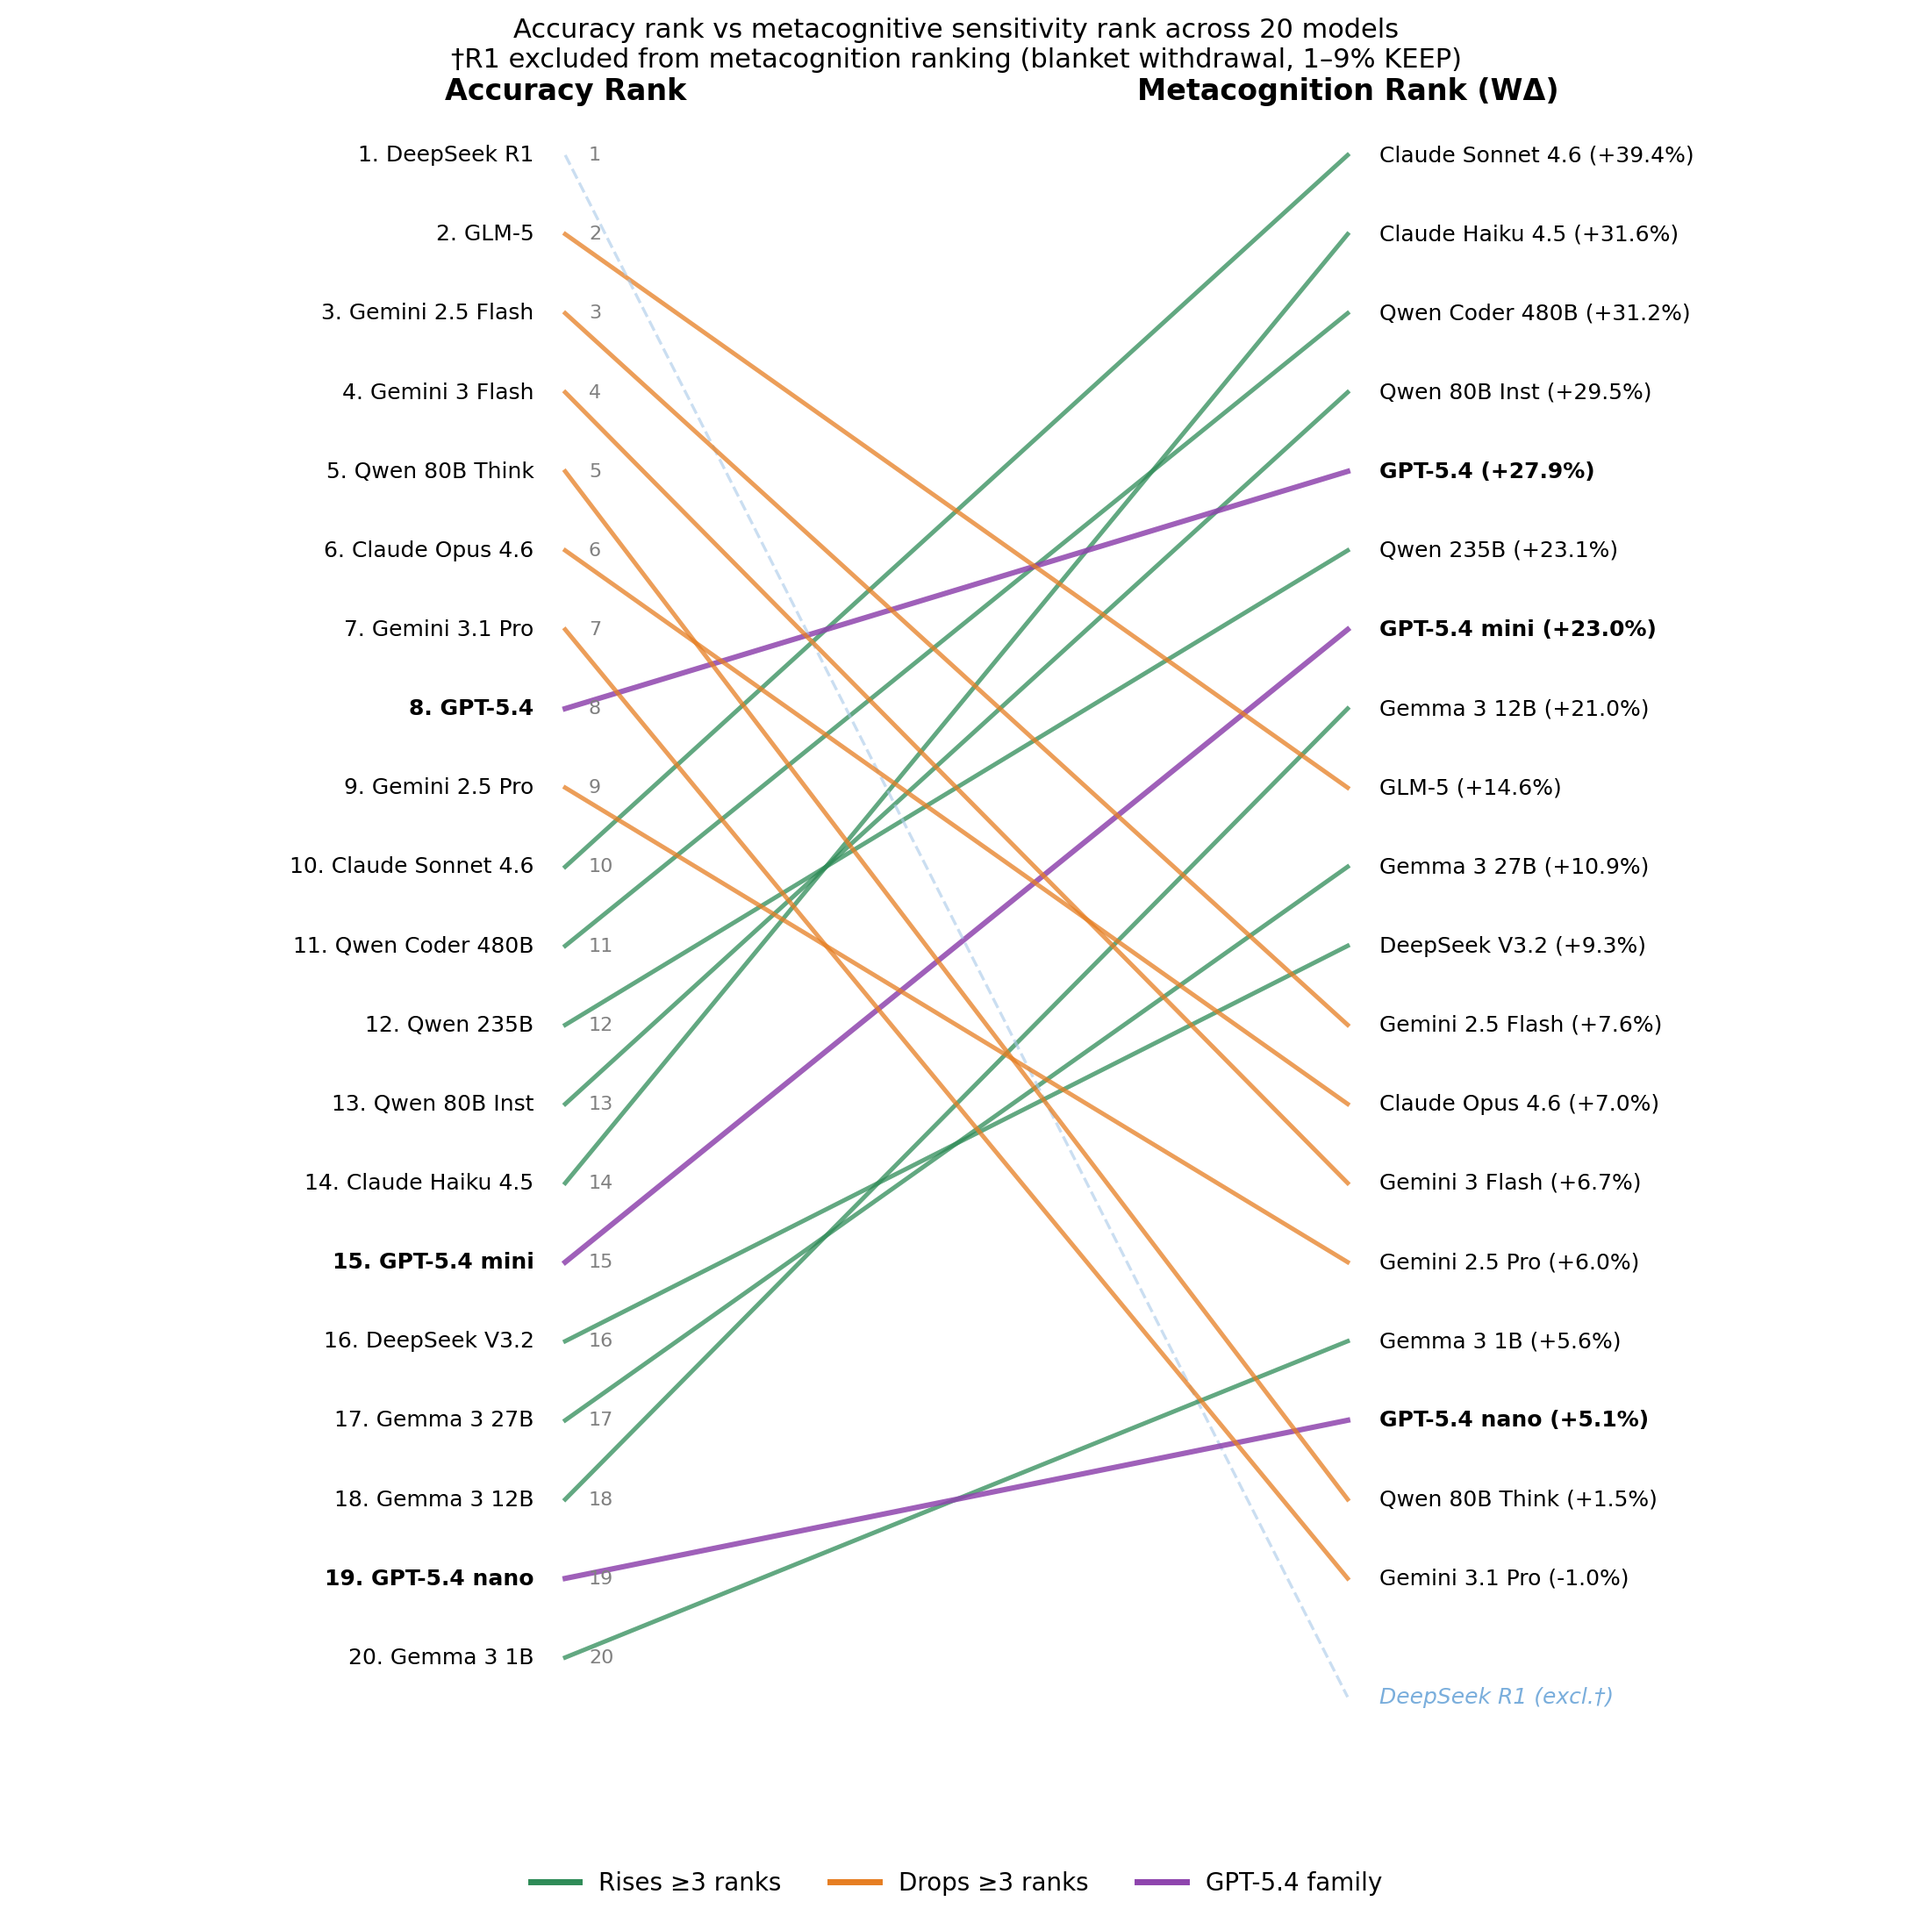
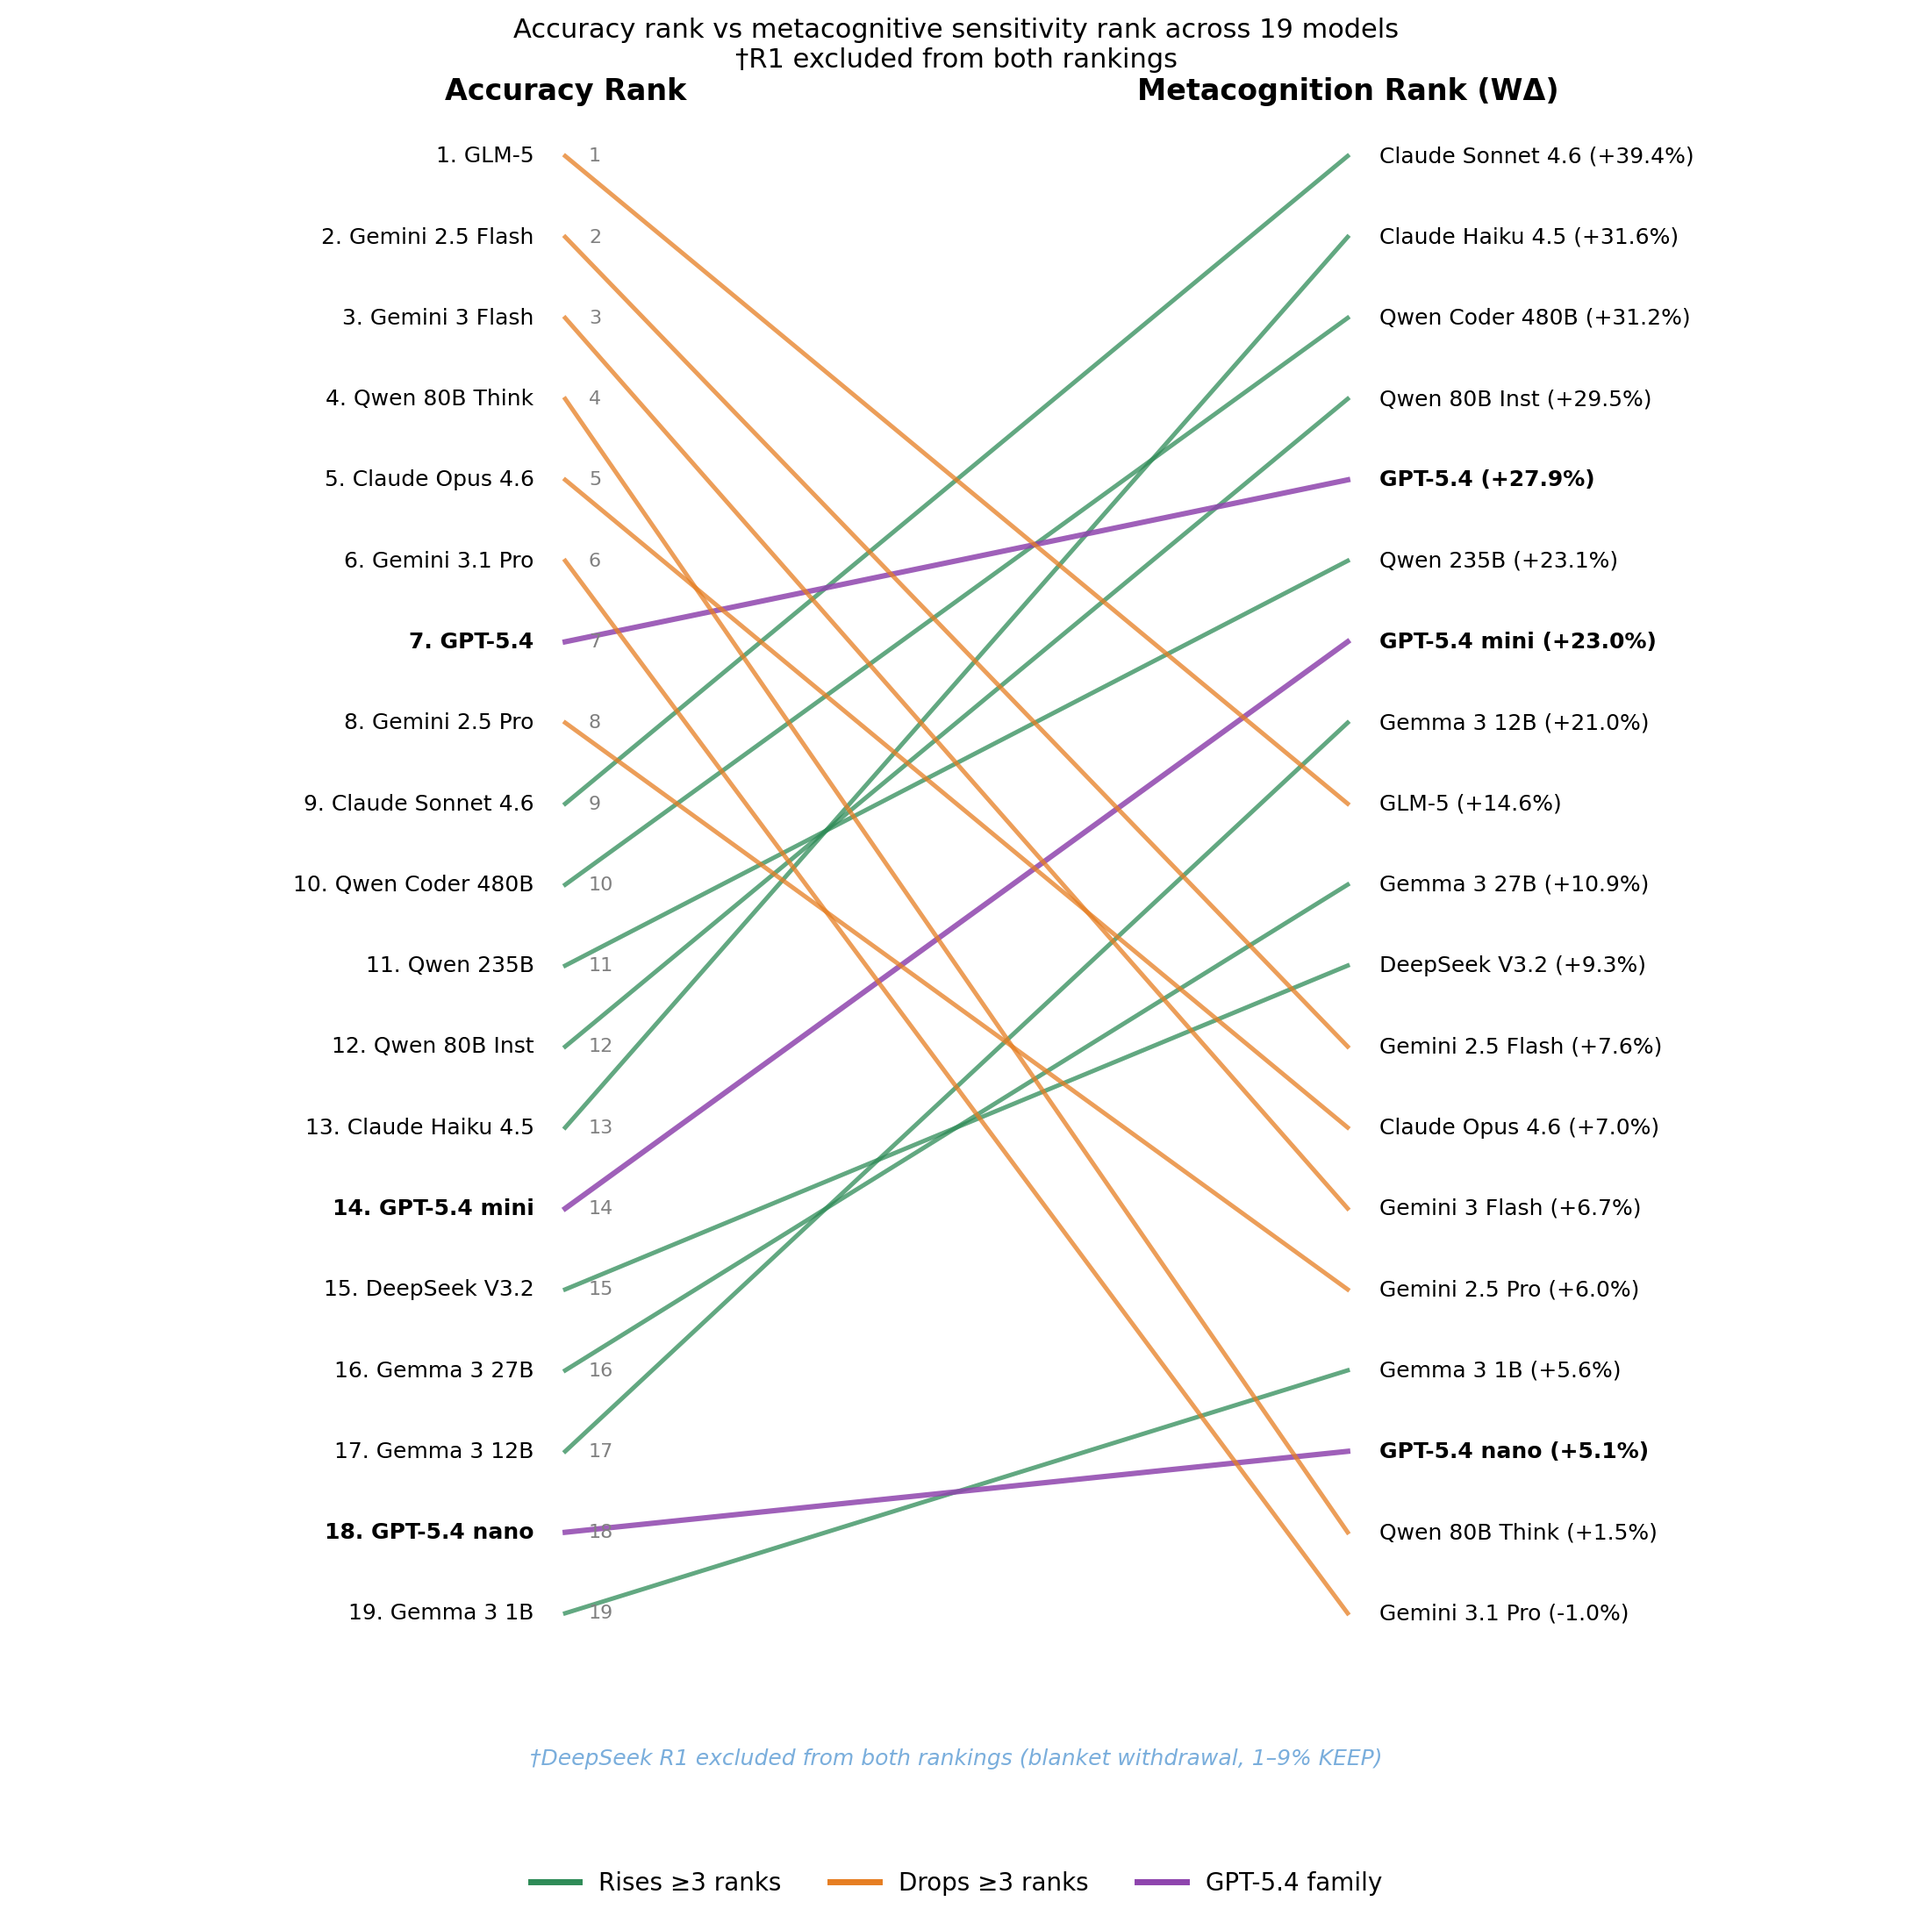
Exclude R1 from both rankings in slope chart

diff --git a/analysis/figures.py b/analysis/figures.py
@@ -166,70 +166,63 @@ def fig1_phenotypes():
 def fig2_slope():
     fig, ax = plt.subplots(figsize=(11, 11))
 
-    # Sort
-    by_acc = sorted(LEADERBOARD.items(), key=lambda x: x[1]['acc_rank'])
-    # For meta rank, exclude R1
-    meta_ranked = [(m, d) for m, d in LEADERBOARD.items() if m != 'DeepSeek R1']
-    by_meta = sorted(meta_ranked, key=lambda x: -x[1]['mean_wd'])
+    # Exclude R1 from both rankings
+    models_ranked = {m: d for m, d in LEADERBOARD.items() if m != 'DeepSeek R1'}
+    
+    # Sort by accuracy rank (ascending = best first), re-rank among 19 models
+    by_acc = sorted(models_ranked.items(), key=lambda x: x[1]['acc_rank'])
+    # Sort by meta (WD descending)
+    by_meta = sorted(models_ranked.items(), key=lambda x: -x[1]['mean_wd'])
 
     n = len(by_acc)
-    n_meta = len(by_meta)
 
     # Position dict
     acc_pos = {m: i for i, (m, _) in enumerate(by_acc)}
     meta_pos = {m: i for i, (m, _) in enumerate(by_meta)}
 
-    for m in LEADERBOARD:
+    for m in models_ranked:
         ay = -acc_pos[m]
-        if m == 'DeepSeek R1':
-            # Show but dashed at bottom
-            my = -(n_meta + 0.5)
-            color = '#A8C8E8'
-            ls = '--'
-            lw = 1.2
-            alpha = 0.6
+        my = -meta_pos[m]
+        # Determine colour by rank shift
+        shift = acc_pos[m] - meta_pos[m]
+        if m in GPT_FAMILY:
+            color = COL_GPT
+            lw = 2.2
+            alpha = 0.85
+        elif shift >= 3:
+            color = COL_A  # rises
+            lw = 1.8
+            alpha = 0.75
+        elif shift <= -3:
+            color = COL_C  # drops
+            lw = 1.8
+            alpha = 0.75
         else:
-            my = -meta_pos[m]
-            # Determine colour by rank shift
-            shift = acc_pos[m] - meta_pos[m]
-            if m in GPT_FAMILY:
-                color = COL_GPT
-                lw = 2.2
-                alpha = 0.85
-            elif shift >= 3:
-                color = COL_A  # rises
-                lw = 1.8
-                alpha = 0.75
-            elif shift <= -3:
-                color = COL_C  # drops
-                lw = 1.8
-                alpha = 0.75
-            else:
-                color = '#888888'
-                lw = 0.9
-                alpha = 0.4
-            ls = '-'
+            color = '#888888'
+            lw = 0.9
+            alpha = 0.4
 
-        ax.plot([0, 1], [ay, my], color=color, lw=lw, alpha=alpha, linestyle=ls, zorder=2)
+        ax.plot([0, 1], [ay, my], color=color, lw=lw, alpha=alpha, linestyle='-', zorder=2)
 
-    # Labels
-    for m, d in by_acc:
-        y = -acc_pos[m]
+    # Labels - accuracy side
+    for i, (m, d) in enumerate(by_acc):
+        y = -i
         wt = 'bold' if m in GPT_FAMILY else 'normal'
-        ax.text(-0.04, y, f"{d['acc_rank']}. {m}", ha='right', va='center', fontsize=9, fontweight=wt)
-        ax.text(0.03, y, f"{d['acc_rank']:.0f}", ha='left', va='center', fontsize=8, color='gray')
+        ax.text(-0.04, y, f"{i+1}. {m}", ha='right', va='center', fontsize=9, fontweight=wt)
+        ax.text(0.03, y, f"{i+1}", ha='left', va='center', fontsize=8, color='gray')
 
+    # Labels - meta side
     for i, (m, d) in enumerate(by_meta):
         y = -i
         wt = 'bold' if m in GPT_FAMILY else 'normal'
         ax.text(1.04, y, f"{m} ({d['mean_wd']:+.1f}%)", ha='left', va='center', fontsize=9, fontweight=wt)
 
-    # R1 row
-    ax.text(1.04, -(n_meta + 0.5), 'DeepSeek R1 (excl.†)',
-            ha='left', va='center', fontsize=9, style='italic', color='#7AAEDC')
+    # R1 footnote at bottom
+    ax.text(0.5, -(n + 0.8), '†DeepSeek R1 excluded from both rankings (blanket withdrawal, 1–9% KEEP)',
+            ha='center', va='center', fontsize=9, style='italic', color='#7AAEDC')
 
     ax.set_xlim(-0.7, 1.7)
-    ax.set_ylim(-(n + 1), 0.5)
+    ax.set_ylim(-(n + 1.5), 0.5)
     ax.set_xticks([])
     ax.set_yticks([])
     ax.spines['left'].set_visible(False)
@@ -248,7 +241,7 @@ def fig2_slope():
     ax.legend(handles=legend_elems, loc='lower center', ncol=3, frameon=False,
               bbox_to_anchor=(0.5, -0.06), fontsize=10)
 
-    ax.set_title('Accuracy rank vs metacognitive sensitivity rank across 20 models\n†R1 excluded from metacognition ranking (blanket withdrawal, 1–9% KEEP)',
+    ax.set_title('Accuracy rank vs metacognitive sensitivity rank across 19 models\n†R1 excluded from both rankings',
                  fontsize=11, pad=20)
 
     plt.tight_layout()
